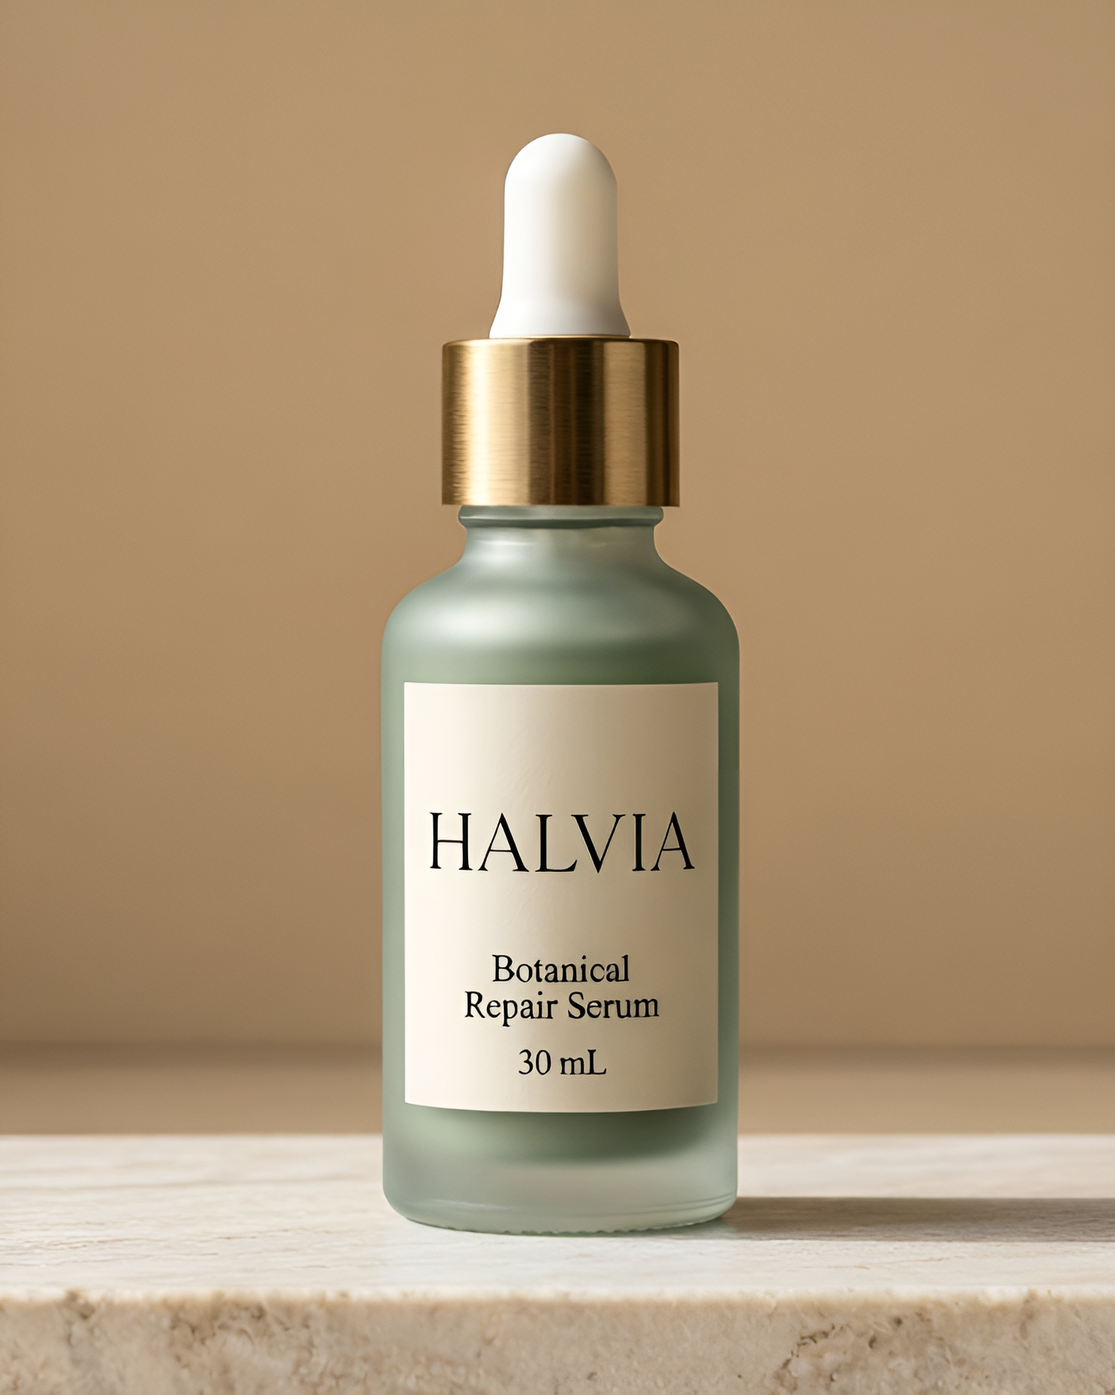
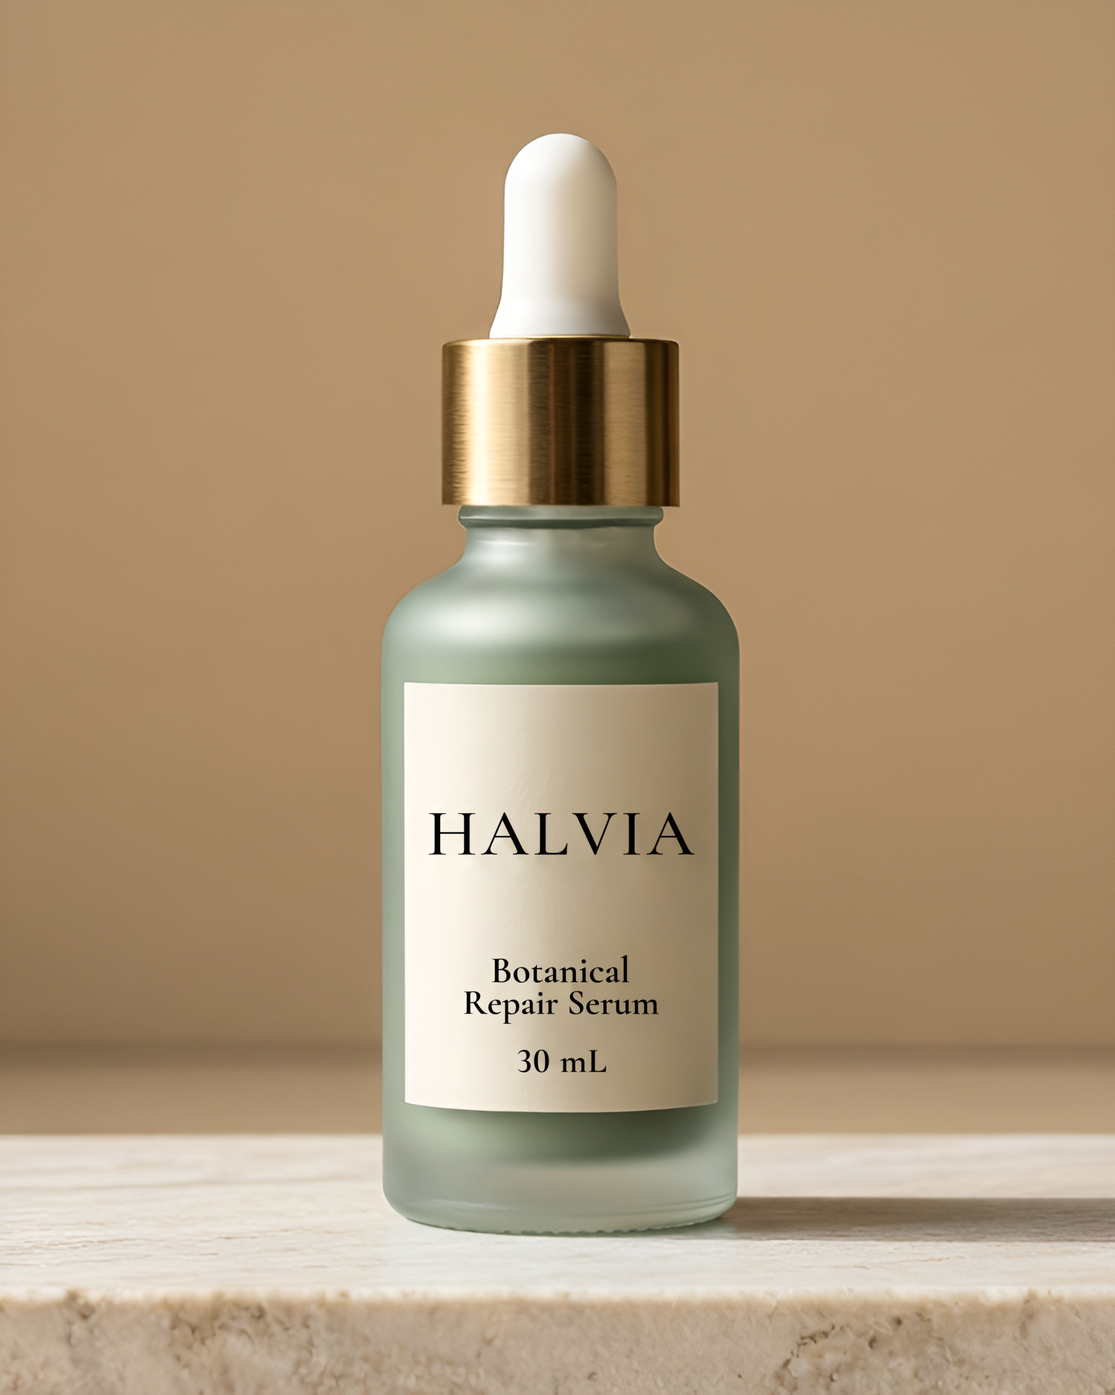
Earlier work section: typeset serum labels, section renamed

Changed region(s): [[0.434, 0.6875, 0.5889, 0.7812], [0.372, 0.5625, 0.6199, 0.625]]

diff --git a/index.html b/index.html
@@ -43,7 +43,7 @@ td.n,th.n{text-align:right;font-variant-numeric:tabular-nums}
 ol.steps{max-width:860px;padding-left:1.2rem}ol.steps li{margin:.45rem 0}
 video{width:100%;height:auto;display:block;background:#000}
 footer{margin-top:5rem;padding-top:1.2rem;border-top:1px solid var(--line);color:var(--muted);font-size:.85rem}
-</style></head><body><main><header class="top"><span>Kardokh Kakabra · November 2026</span><nav><a href="#lifestyle">Lifestyle</a><a href="#packshots">Packshots</a><a href="#real">Real photograph</a><a href="#label">Label test</a><a href="#how">How it works</a><a href="#earlier">Earlier work</a></nav></header><section class="hero"><div><div class="kicker">Perfume packshots and lifestyle</div><h1>Your real label, in every image</h1><p class="lead">The image generator builds the scene and the light around the bottle. The label and cap come from the product photograph and are never redrawn.</p><p class="lead">Made for this proposal on a fictional house, Maison Orvane, with labels set in real type, and on one real camera photograph.</p></div><a href="full/hero-ember-hour.jpg"><img src="img/hero-ember-hour.jpg" alt="Your real label, in every image"></a></section><h2 id="lifestyle">Lifestyle</h2><p class="muted">Each concept starts from the scent&#x27;s notes. Masters 3,312 x 4,128 px; click any image for the full-size file.</p><div class="gal"><figure><a class="frame" href="full/lifestyle-ember-hour.jpg" style="aspect-ratio:4/5"><img loading="lazy" src="img/lifestyle-ember-hour.jpg" alt="Ember Hour"></a><figcaption><b>Ember Hour</b> Saffron, leather, amber: low tungsten lamplight, walnut, incense smoke.<div class="small">Full size 3,312 x 4,128 px</div></figcaption></figure><figure><a class="frame" href="full/lifestyle-salt-terrace.jpg" style="aspect-ratio:4/5"><img loading="lazy" src="img/lifestyle-salt-terrace.jpg" alt="Salt Terrace"></a><figcaption><b>Salt Terrace</b> Lemon, cardamom, sandalwood: hard sun on limestone, light from the sea.<div class="small">Full size 3,312 x 4,128 px</div></figcaption></figure><figure><a class="frame" href="full/lifestyle-glass-house.jpg" style="aspect-ratio:4/5"><img loading="lazy" src="img/lifestyle-glass-house.jpg" alt="Glass House"></a><figcaption><b>Glass House</b> Green tea, sage, cedarwood: cool morning light through linen.<div class="small">Full size 3,312 x 4,128 px</div></figcaption></figure><figure><a class="frame" href="full/lifestyle-coat-mist.jpg" style="aspect-ratio:4/5"><img loading="lazy" src="img/lifestyle-coat-mist.jpg" alt="Coat Mist"></a><figcaption><b>Coat Mist</b> The dog range: soft afternoon light, linen, a sleeping dog.<div class="small">Full size 3,312 x 4,128 px</div></figcaption></figure><figure><a class="frame" href="full/lifestyle-candle.jpg" style="aspect-ratio:4/5"><img loading="lazy" src="img/lifestyle-candle.jpg" alt="Salt Terrace candle"></a><figcaption><b>Salt Terrace candle</b> Frosted tumbler on travertine, late light from behind.<div class="small">Full size 3,312 x 4,128 px</div></figcaption></figure><figure><a class="frame" href="full/lifestyle-range.jpg" style="aspect-ratio:4/5"><img loading="lazy" src="img/lifestyle-range.jpg" alt="The three scents"></a><figcaption><b>The three scents</b> Limestone slabs, hard sun and long shadows.<div class="small">Full size 3,312 x 4,128 px</div></figcaption></figure></div><h2>Before and after the lock</h2><p class="muted">Drag the line. Left: the scene edit, in which the image generator redraws the label. Right: the same frame after the photographed label and cap are placed back on top.</p><div class="cmp"><figure><div class="ba" style="aspect-ratio:1104/1376"><img src="img/edit-ember.jpg" alt="before"><img class="after" src="img/locked-ember.jpg" alt="after"><div class="bar"></div><div class="knob"></div><span class="tag tl">Generator&#x27;s redraw</span><span class="tag tr">Label locked</span></div><figcaption><b>Ember Hour</b><div class="small"><a href="full/edit-ember.jpg">Before, full size</a> · <a href="full/locked-ember.jpg">After, full size</a></div></figcaption></figure><figure><div class="ba" style="aspect-ratio:1104/1376"><img src="img/edit-riviera.jpg" alt="before"><img class="after" src="img/locked-riviera.jpg" alt="after"><div class="bar"></div><div class="knob"></div><span class="tag tl">Generator&#x27;s redraw</span><span class="tag tr">Label locked</span></div><figcaption><b>Salt Terrace</b><div class="small"><a href="full/edit-riviera.jpg">Before, full size</a> · <a href="full/locked-riviera.jpg">After, full size</a></div></figcaption></figure><figure><div class="ba" style="aspect-ratio:1104/1376"><img src="img/edit-glasshouse.jpg" alt="before"><img class="after" src="img/locked-glasshouse.jpg" alt="after"><div class="bar"></div><div class="knob"></div><span class="tag tl">Generator&#x27;s redraw</span><span class="tag tr">Label locked</span></div><figcaption><b>Glass House</b><div class="small"><a href="full/edit-glasshouse.jpg">Before, full size</a> · <a href="full/locked-glasshouse.jpg">After, full size</a></div></figcaption></figure></div><h2 id="packshots">Packshots</h2><p class="muted">Backdrop RGB 255 to every edge, bottle at 85% of the frame, label and cap pixels identical to the source photograph (maximum difference 0). Also delivered at 2048 x 2048, 1600 x 2000 and 1551 x 2000.</p><div class="gal"><figure><a class="frame" href="full/packshot-ember-hour.jpg" style="aspect-ratio:1/1"><img loading="lazy" src="img/packshot-ember-hour.jpg" alt="Ember Hour"></a><figcaption><b>Ember Hour</b><div class="small">Full size 2,693 x 2,693 px</div></figcaption></figure><figure><a class="frame" href="full/packshot-salt-terrace.jpg" style="aspect-ratio:1/1"><img loading="lazy" src="img/packshot-salt-terrace.jpg" alt="Salt Terrace"></a><figcaption><b>Salt Terrace</b><div class="small">Full size 2,693 x 2,693 px</div></figcaption></figure><figure><a class="frame" href="full/packshot-glasshouse.jpg" style="aspect-ratio:1/1"><img loading="lazy" src="img/packshot-glasshouse.jpg" alt="Glass House"></a><figcaption><b>Glass House</b><div class="small">Full size 2,693 x 2,693 px</div></figcaption></figure><figure><a class="frame" href="full/packshot-hound-mist.jpg" style="aspect-ratio:1/1"><img loading="lazy" src="img/packshot-hound-mist.jpg" alt="Coat Mist"></a><figcaption><b>Coat Mist</b><div class="small">Full size 2,492 x 2,492 px</div></figcaption></figure><figure><a class="frame" href="full/packshot-terrace-candle.jpg" style="aspect-ratio:1/1"><img loading="lazy" src="img/packshot-terrace-candle.jpg" alt="Salt Terrace candle"></a><figcaption><b>Salt Terrace candle</b><div class="small">Full size 2,201 x 2,201 px</div></figcaption></figure></div><h2 id="real">A real photograph, finished</h2><p class="muted">Public-domain photograph of a 1925 perfume bottle (Canon EOS R6 Mark II). 99% of the bottle area is the photograph&#x27;s own pixels, unchanged; only the backdrop, shadow and reflection are new.</p><div class="cmp"><figure><div class="ba" style="aspect-ratio:1/1"><img src="img/packshot-1925-bottle-before.jpg" alt="before"><img class="after" src="img/packshot-1925-bottle.jpg" alt="after"><div class="bar"></div><div class="knob"></div><span class="tag tl">As photographed</span><span class="tag tr">Packshot</span></div><figcaption><b>1925 perfume bottle</b><div class="small"><a href="full/packshot-1925-bottle-before.jpg">Before, full size</a> · <a href="full/packshot-1925-bottle.jpg">After, full size</a></div></figcaption></figure></div><h2 id="label">The label, read back</h2><p class="muted">Source photograph, the same edit model asked to place the bottle itself, and this workflow, all at the same image size.</p><figure class="wfig" style="max-width:900px"><a href="full/label-read-back.jpg"><img loading="lazy" src="img/label-read-back.jpg" alt="Character accuracy and exact lines per image, from the read-back test." style="width:100%;height:auto;display:block"></a><figcaption>Character accuracy and exact lines per image, from the read-back test.<div class="small">Full size 3,000 x 3,600 px</div></figcaption></figure><h2>Read-back results, all images</h2><p class="muted">An independent text-reading model (Qwen3-VL-8B) transcribed the label in every image without seeing the true text. Same crop rule for every image. Main lines: house, name, concentration and size. Detail: notes, ingredients, lot and warnings, set at 0.6 to 1.0 mm.</p><table><thead><tr><th class="">Images</th><th class="n">Count</th><th class="n">Characters read correctly</th><th class="">Main lines exact</th><th class="">Detail lines exact</th></tr></thead><tbody><tr><td class="">Source photographs</td><td class="n">5</td><td class="n">100%</td><td class="">22 of 22</td><td class="">14 of 14</td></tr><tr><td class="">Packshots, 2000 px</td><td class="n">5</td><td class="n">100%</td><td class="">22 of 22</td><td class="">14 of 14</td></tr><tr><td class="">Generator alone</td><td class="n">10</td><td class="n">40%</td><td class="">19 of 44</td><td class="">0 of 28</td></tr><tr><td class="">Scene edit before the lock</td><td class="n">20</td><td class="n">15%</td><td class="">5 of 88</td><td class="">0 of 56</td></tr><tr><td class="">This workflow, scene size</td><td class="n">20</td><td class="n">88%</td><td class="">84 of 88</td><td class="">17 of 56</td></tr><tr><td class="">This workflow, 3x masters</td><td class="n">5</td><td class="n">95%</td><td class="">22 of 22</td><td class="">12 of 14</td></tr></tbody></table><p class="muted">Descriptive counts over a few seeds per scene, so no intervals. At scene size the smallest detail lines are only a few pixels tall; the masters show what the reader gets at delivery size.</p><h2 id="how">How it works</h2><ol class="steps"><li>Cut-out: a soft matte separates the bottle; label and cap are masked; clear glass is kept as transmittance.</li><li>Packshot: the studio sweep is flattened to RGB 255, an even contact shadow and faint reflection are drawn, the label and cap are copied from the photograph with one global exposure change.</li><li>Lifestyle: the bottle is staged on an empty scene; Qwen-Image-Edit relights the frame, adds shadow, refraction and reflections.</li><li>Lock: the photographed label and cap are placed back on top, aligned to the edit, with only the scene&#x27;s smooth light applied.</li><li>Master: the scene is enlarged three times with Real-ESRGAN and the bottle is placed again from the full-resolution photograph.</li><li>Check: every file records the share of photograph pixels, the maximum difference and the label similarity before and after the lock.</li></ol><p>Label similarity to the source (SSIM on the label, all 24 locked stills): generator 0.38 to 0.70, after the lock 0.94 to 0.99.</p><p>Open-weight models under commercial-use licences: Qwen-Image-2512 and Qwen-Image-Edit-2511 (Apache 2.0), BiRefNet (MIT), SAM 2.1 (Apache 2.0), Real-ESRGAN (BSD-3), Qwen3-VL-8B (Apache 2.0).</p><h2 id="earlier">Earlier work, re-finished</h2><p class="muted">A botanical serum from an earlier project: enlarged, cropped to 4:5 and re-graded. In the water image the reflection had invented letters; it now mirrors the real label.</p><div class="gal"><figure><a class="frame" href="full/earlier-serum-studio.jpg" style="aspect-ratio:4/5"><img loading="lazy" src="img/earlier-serum-studio.jpg" alt="Serum, studio"></a><figcaption><b>Serum, studio</b><div class="small">Full size 2,226 x 2,784 px</div></figcaption></figure><figure><a class="frame" href="full/earlier-serum-vanity.jpg" style="aspect-ratio:4/5"><img loading="lazy" src="img/earlier-serum-vanity.jpg" alt="Serum, vanity"></a><figcaption><b>Serum, vanity</b><div class="small">Full size 1,842 x 2,304 px</div></figcaption></figure><figure><a class="frame" href="full/earlier-serum-water.jpg" style="aspect-ratio:4/5"><img loading="lazy" src="img/earlier-serum-water.jpg" alt="Serum, water"></a><figcaption><b>Serum, water</b><div class="small">Full size 1,842 x 2,304 px</div></figcaption></figure></div><footer><p>Maison Orvane, its products and labels are invented for this page. The stand-in product photographs were generated with blank labels and the typeset labels were printed onto them, so the exact label text is known; scenes are generated. The 1925 bottle is a public-domain (CC0) photograph from Wikimedia Commons.</p><p>Kardokh Kakabra, November 2026</p></footer></main><script>
+</style></head><body><main><header class="top"><span>Kardokh Kakabra · November 2026</span><nav><a href="#lifestyle">Lifestyle</a><a href="#packshots">Packshots</a><a href="#real">Real photograph</a><a href="#label">Label test</a><a href="#how">How it works</a><a href="#earlier">Earlier work</a></nav></header><section class="hero"><div><div class="kicker">Perfume packshots and lifestyle</div><h1>Your real label, in every image</h1><p class="lead">The image generator builds the scene and the light around the bottle. The label and cap come from the product photograph and are never redrawn.</p><p class="lead">Made for this proposal on a fictional house, Maison Orvane, with labels set in real type, and on one real camera photograph.</p></div><a href="full/hero-ember-hour.jpg"><img src="img/hero-ember-hour.jpg" alt="Your real label, in every image"></a></section><h2 id="lifestyle">Lifestyle</h2><p class="muted">Each concept starts from the scent&#x27;s notes. Masters 3,312 x 4,128 px; click any image for the full-size file.</p><div class="gal"><figure><a class="frame" href="full/lifestyle-ember-hour.jpg" style="aspect-ratio:4/5"><img loading="lazy" src="img/lifestyle-ember-hour.jpg" alt="Ember Hour"></a><figcaption><b>Ember Hour</b> Saffron, leather, amber: low tungsten lamplight, walnut, incense smoke.<div class="small">Full size 3,312 x 4,128 px</div></figcaption></figure><figure><a class="frame" href="full/lifestyle-salt-terrace.jpg" style="aspect-ratio:4/5"><img loading="lazy" src="img/lifestyle-salt-terrace.jpg" alt="Salt Terrace"></a><figcaption><b>Salt Terrace</b> Lemon, cardamom, sandalwood: hard sun on limestone, light from the sea.<div class="small">Full size 3,312 x 4,128 px</div></figcaption></figure><figure><a class="frame" href="full/lifestyle-glass-house.jpg" style="aspect-ratio:4/5"><img loading="lazy" src="img/lifestyle-glass-house.jpg" alt="Glass House"></a><figcaption><b>Glass House</b> Green tea, sage, cedarwood: cool morning light through linen.<div class="small">Full size 3,312 x 4,128 px</div></figcaption></figure><figure><a class="frame" href="full/lifestyle-coat-mist.jpg" style="aspect-ratio:4/5"><img loading="lazy" src="img/lifestyle-coat-mist.jpg" alt="Coat Mist"></a><figcaption><b>Coat Mist</b> The dog range: soft afternoon light, linen, a sleeping dog.<div class="small">Full size 3,312 x 4,128 px</div></figcaption></figure><figure><a class="frame" href="full/lifestyle-candle.jpg" style="aspect-ratio:4/5"><img loading="lazy" src="img/lifestyle-candle.jpg" alt="Salt Terrace candle"></a><figcaption><b>Salt Terrace candle</b> Frosted tumbler on travertine, late light from behind.<div class="small">Full size 3,312 x 4,128 px</div></figcaption></figure><figure><a class="frame" href="full/lifestyle-range.jpg" style="aspect-ratio:4/5"><img loading="lazy" src="img/lifestyle-range.jpg" alt="The three scents"></a><figcaption><b>The three scents</b> Limestone slabs, hard sun and long shadows.<div class="small">Full size 3,312 x 4,128 px</div></figcaption></figure></div><h2>Before and after the lock</h2><p class="muted">Drag the line. Left: the scene edit, in which the image generator redraws the label. Right: the same frame after the photographed label and cap are placed back on top.</p><div class="cmp"><figure><div class="ba" style="aspect-ratio:1104/1376"><img src="img/edit-ember.jpg" alt="before"><img class="after" src="img/locked-ember.jpg" alt="after"><div class="bar"></div><div class="knob"></div><span class="tag tl">Generator&#x27;s redraw</span><span class="tag tr">Label locked</span></div><figcaption><b>Ember Hour</b><div class="small"><a href="full/edit-ember.jpg">Before, full size</a> · <a href="full/locked-ember.jpg">After, full size</a></div></figcaption></figure><figure><div class="ba" style="aspect-ratio:1104/1376"><img src="img/edit-riviera.jpg" alt="before"><img class="after" src="img/locked-riviera.jpg" alt="after"><div class="bar"></div><div class="knob"></div><span class="tag tl">Generator&#x27;s redraw</span><span class="tag tr">Label locked</span></div><figcaption><b>Salt Terrace</b><div class="small"><a href="full/edit-riviera.jpg">Before, full size</a> · <a href="full/locked-riviera.jpg">After, full size</a></div></figcaption></figure><figure><div class="ba" style="aspect-ratio:1104/1376"><img src="img/edit-glasshouse.jpg" alt="before"><img class="after" src="img/locked-glasshouse.jpg" alt="after"><div class="bar"></div><div class="knob"></div><span class="tag tl">Generator&#x27;s redraw</span><span class="tag tr">Label locked</span></div><figcaption><b>Glass House</b><div class="small"><a href="full/edit-glasshouse.jpg">Before, full size</a> · <a href="full/locked-glasshouse.jpg">After, full size</a></div></figcaption></figure></div><h2 id="packshots">Packshots</h2><p class="muted">Backdrop RGB 255 to every edge, bottle at 85% of the frame, label and cap pixels identical to the source photograph (maximum difference 0). Also delivered at 2048 x 2048, 1600 x 2000 and 1551 x 2000.</p><div class="gal"><figure><a class="frame" href="full/packshot-ember-hour.jpg" style="aspect-ratio:1/1"><img loading="lazy" src="img/packshot-ember-hour.jpg" alt="Ember Hour"></a><figcaption><b>Ember Hour</b><div class="small">Full size 2,693 x 2,693 px</div></figcaption></figure><figure><a class="frame" href="full/packshot-salt-terrace.jpg" style="aspect-ratio:1/1"><img loading="lazy" src="img/packshot-salt-terrace.jpg" alt="Salt Terrace"></a><figcaption><b>Salt Terrace</b><div class="small">Full size 2,693 x 2,693 px</div></figcaption></figure><figure><a class="frame" href="full/packshot-glasshouse.jpg" style="aspect-ratio:1/1"><img loading="lazy" src="img/packshot-glasshouse.jpg" alt="Glass House"></a><figcaption><b>Glass House</b><div class="small">Full size 2,693 x 2,693 px</div></figcaption></figure><figure><a class="frame" href="full/packshot-hound-mist.jpg" style="aspect-ratio:1/1"><img loading="lazy" src="img/packshot-hound-mist.jpg" alt="Coat Mist"></a><figcaption><b>Coat Mist</b><div class="small">Full size 2,492 x 2,492 px</div></figcaption></figure><figure><a class="frame" href="full/packshot-terrace-candle.jpg" style="aspect-ratio:1/1"><img loading="lazy" src="img/packshot-terrace-candle.jpg" alt="Salt Terrace candle"></a><figcaption><b>Salt Terrace candle</b><div class="small">Full size 2,201 x 2,201 px</div></figcaption></figure></div><h2 id="real">A real photograph, finished</h2><p class="muted">Public-domain photograph of a 1925 perfume bottle (Canon EOS R6 Mark II). 99% of the bottle area is the photograph&#x27;s own pixels, unchanged; only the backdrop, shadow and reflection are new.</p><div class="cmp"><figure><div class="ba" style="aspect-ratio:1/1"><img src="img/packshot-1925-bottle-before.jpg" alt="before"><img class="after" src="img/packshot-1925-bottle.jpg" alt="after"><div class="bar"></div><div class="knob"></div><span class="tag tl">As photographed</span><span class="tag tr">Packshot</span></div><figcaption><b>1925 perfume bottle</b><div class="small"><a href="full/packshot-1925-bottle-before.jpg">Before, full size</a> · <a href="full/packshot-1925-bottle.jpg">After, full size</a></div></figcaption></figure></div><h2 id="label">The label, read back</h2><p class="muted">Source photograph, the same edit model asked to place the bottle itself, and this workflow, all at the same image size.</p><figure class="wfig" style="max-width:900px"><a href="full/label-read-back.jpg"><img loading="lazy" src="img/label-read-back.jpg" alt="Character accuracy and exact lines per image, from the read-back test." style="width:100%;height:auto;display:block"></a><figcaption>Character accuracy and exact lines per image, from the read-back test.<div class="small">Full size 3,000 x 3,600 px</div></figcaption></figure><h2>Read-back results, all images</h2><p class="muted">An independent text-reading model (Qwen3-VL-8B) transcribed the label in every image without seeing the true text. Same crop rule for every image. Main lines: house, name, concentration and size. Detail: notes, ingredients, lot and warnings, set at 0.6 to 1.0 mm.</p><table><thead><tr><th class="">Images</th><th class="n">Count</th><th class="n">Characters read correctly</th><th class="">Main lines exact</th><th class="">Detail lines exact</th></tr></thead><tbody><tr><td class="">Source photographs</td><td class="n">5</td><td class="n">100%</td><td class="">22 of 22</td><td class="">14 of 14</td></tr><tr><td class="">Packshots, 2000 px</td><td class="n">5</td><td class="n">100%</td><td class="">22 of 22</td><td class="">14 of 14</td></tr><tr><td class="">Generator alone</td><td class="n">10</td><td class="n">40%</td><td class="">19 of 44</td><td class="">0 of 28</td></tr><tr><td class="">Scene edit before the lock</td><td class="n">20</td><td class="n">15%</td><td class="">5 of 88</td><td class="">0 of 56</td></tr><tr><td class="">This workflow, scene size</td><td class="n">20</td><td class="n">88%</td><td class="">84 of 88</td><td class="">17 of 56</td></tr><tr><td class="">This workflow, 3x masters</td><td class="n">5</td><td class="n">95%</td><td class="">22 of 22</td><td class="">12 of 14</td></tr></tbody></table><p class="muted">Descriptive counts over a few seeds per scene, so no intervals. At scene size the smallest detail lines are only a few pixels tall; the masters show what the reader gets at delivery size.</p><h2 id="how">How it works</h2><ol class="steps"><li>Cut-out: a soft matte separates the bottle; label and cap are masked; clear glass is kept as transmittance.</li><li>Packshot: the studio sweep is flattened to RGB 255, an even contact shadow and faint reflection are drawn, the label and cap are copied from the photograph with one global exposure change.</li><li>Lifestyle: the bottle is staged on an empty scene; Qwen-Image-Edit relights the frame, adds shadow, refraction and reflections.</li><li>Lock: the photographed label and cap are placed back on top, aligned to the edit, with only the scene&#x27;s smooth light applied.</li><li>Master: the scene is enlarged three times with Real-ESRGAN and the bottle is placed again from the full-resolution photograph.</li><li>Check: every file records the share of photograph pixels, the maximum difference and the label similarity before and after the lock.</li></ol><p>Label similarity to the source (SSIM on the label, all 24 locked stills): generator 0.38 to 0.70, after the lock 0.94 to 0.99.</p><p>Open-weight models under commercial-use licences: Qwen-Image-2512 and Qwen-Image-Edit-2511 (Apache 2.0), BiRefNet (MIT), SAM 2.1 (Apache 2.0), Real-ESRGAN (BSD-3), Qwen3-VL-8B (Apache 2.0).</p><h2 id="earlier">Earlier work</h2><p class="muted">A botanical serum from an earlier project.</p><div class="gal"><figure><a class="frame" href="full/earlier-serum-studio.jpg" style="aspect-ratio:4/5"><img loading="lazy" src="img/earlier-serum-studio.jpg" alt="Serum, studio"></a><figcaption><b>Serum, studio</b><div class="small">Full size 2,226 x 2,784 px</div></figcaption></figure><figure><a class="frame" href="full/earlier-serum-vanity.jpg" style="aspect-ratio:4/5"><img loading="lazy" src="img/earlier-serum-vanity.jpg" alt="Serum, vanity"></a><figcaption><b>Serum, vanity</b><div class="small">Full size 1,842 x 2,304 px</div></figcaption></figure><figure><a class="frame" href="full/earlier-serum-water.jpg" style="aspect-ratio:4/5"><img loading="lazy" src="img/earlier-serum-water.jpg" alt="Serum, water"></a><figcaption><b>Serum, water</b><div class="small">Full size 1,842 x 2,304 px</div></figcaption></figure></div><footer><p>Maison Orvane, its products and labels are invented for this page. The stand-in product photographs were generated with blank labels and the typeset labels were printed onto them, so the exact label text is known; scenes are generated. The 1925 bottle is a public-domain (CC0) photograph from Wikimedia Commons.</p><p>Kardokh Kakabra, November 2026</p></footer></main><script>
 document.querySelectorAll('.ba').forEach(function(el){
   var after=el.querySelector('.after'),bar=el.querySelector('.bar'),knob=el.querySelector('.knob');
   function set(x){var r=el.getBoundingClientRect();var p=Math.max(0,Math.min(1,(x-r.left)/r.width))*100;
